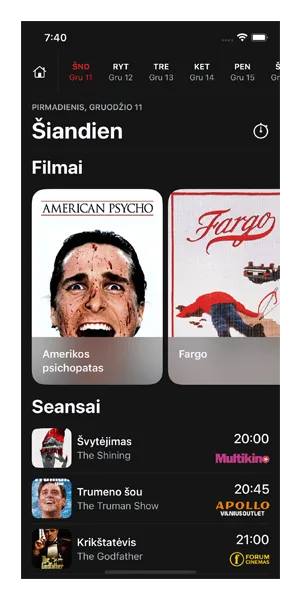
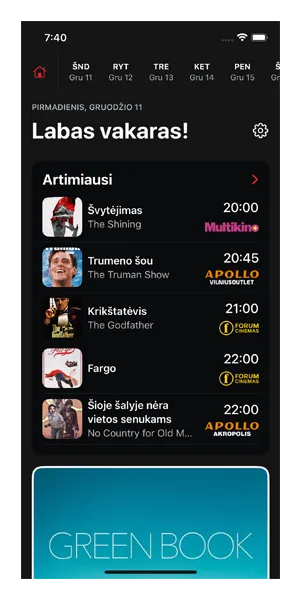
Publish deploy 2023-12-13 22:10

diff --git a/index.html b/index.html
@@ -1,1 +1,1 @@
-<!DOCTYPE html><html lang="lt"><head><meta charset="UTF-8"/><meta name="og:site_name" content="iKinas"/><link rel="canonical" href="https://www.ioys.lt/iKinas"/><meta name="twitter:url" content="https://www.ioys.lt/iKinas"/><meta name="og:url" content="https://www.ioys.lt/iKinas"/><title>iKinas</title><meta name="twitter:title" content="iKinas"/><meta name="og:title" content="iKinas"/><meta name="description" content="Lietuvos kino teatrų repertuaras iOS aplikacijoje!"/><meta name="twitter:description" content="Lietuvos kino teatrų repertuaras iOS aplikacijoje!"/><meta name="og:description" content="Lietuvos kino teatrų repertuaras iOS aplikacijoje!"/><meta name="twitter:card" content="summary"/><link rel="stylesheet" href="/iKinas/styles.css" type="text/css"/><meta name="viewport" content="width=device-width, initial-scale=1.0"/><link rel="shortcut icon" href="/iKinas/images/ikinas-icon.webp" type="image/webp"/></head><body><div class="site-content" style="background-image: linear-gradient(rgba(59,61,64,0.5), rgba(59,61,64,0.5)), url(/iKinas/images/ikinas-bg.webp);"><div class="site-content-wrapper"><div class="content-container--small"><div><img src="/iKinas/images/ikinas-icon.webp" class="app-info-icon"/><span class="app-info-title">iKinas</span></div><div class="image-content"><div class="device-mockup"><img src="/iKinas/images/frame.webp" style="z-index: 100;"/><div class="device-fade"><img src="/iKinas/images/ikinas-1.webp" id="f1"/><img src="/iKinas/images/ikinas-2.webp" id="f2"/><img src="/iKinas/images/ikinas-0.webp" id="f3"/></div></div></div><div><p><span>Nemokama iOS programėlė, kurioje rasi naujausią Lietuvos kino teatrų repertuarą bei išsamią informaciją apie šiuo metu rodomus filmus.</span></p><p><span>Išsirink patogiausią seanso laiką viename iš "Apollo", "Forum Cinemas", "Multikino", "Atlantis" ar "Cinamon" kino teatrų ir iškart įsigyk bilietą į norimą filmą.</span></p><p><span>Gero kino!</span></p></div><a href="https://apps.apple.com/lt/app/ikinas/id1501977644" class="store-button"><img src="/iKinas/images/appstore.webp"/></a></div><div class="content-container--large"><div class="info-content" style="width: 50%;"><div><img src="/iKinas/images/ikinas-icon.webp" class="app-info-icon"/><span class="app-info-title">iKinas</span></div><div><p><span>Nemokama iOS programėlė, kurioje rasi naujausią Lietuvos kino teatrų repertuarą bei išsamią informaciją apie šiuo metu rodomus filmus.</span></p><p><span>Išsirink patogiausią seanso laiką viename iš "Apollo", "Forum Cinemas", "Multikino", "Atlantis" ar "Cinamon" kino teatrų ir iškart įsigyk bilietą į norimą filmą.</span></p><p><span>Gero kino!</span></p></div><a href="https://apps.apple.com/lt/app/ikinas/id1501977644" class="store-button"><img src="/iKinas/images/appstore.webp"/></a></div><div class="image-content" style="width: 50%;"><div class="device-mockup"><img src="/iKinas/images/frame.webp" style="z-index: 100;"/><div class="device-fade"><img src="/iKinas/images/ikinas-1.webp" id="f1"/><img src="/iKinas/images/ikinas-2.webp" id="f2"/><img src="/iKinas/images/ikinas-0.webp" id="f3"/></div></div></div></div></div></div><footer><p><a href="mailto:ioysapps@gmail.com">Kontaktai</a> | <a href="/iKinas/privacy">Privatumo politika</a></p></footer></body></html>
+<!DOCTYPE html><html lang="lt"><head><meta charset="UTF-8"/><meta name="og:site_name" content="iKinas"/><link rel="canonical" href="https://www.ioys.lt/iKinas"/><meta name="twitter:url" content="https://www.ioys.lt/iKinas"/><meta name="og:url" content="https://www.ioys.lt/iKinas"/><title>iKinas</title><meta name="twitter:title" content="iKinas"/><meta name="og:title" content="iKinas"/><meta name="description" content="Lietuvos kino teatrų repertuaras iOS aplikacijoje!"/><meta name="twitter:description" content="Lietuvos kino teatrų repertuaras iOS aplikacijoje!"/><meta name="og:description" content="Lietuvos kino teatrų repertuaras iOS aplikacijoje!"/><meta name="twitter:card" content="summary"/><link rel="stylesheet" href="/iKinas/styles.css" type="text/css"/><meta name="viewport" content="width=device-width, initial-scale=1.0"/><link rel="shortcut icon" href="/iKinas/images/ikinas-icon.webp" type="image/webp"/></head><body><div class="site-content" style="background-image: linear-gradient(rgba(59,61,64,0.5), rgba(59,61,64,0.5)), url(/iKinas/images/ikinas-bg.webp);"><div class="site-content-wrapper"><div class="content-container--small"><div><img src="/iKinas/images/ikinas-icon.webp" class="app-info-icon"/><span class="app-info-title">iKinas</span></div><div class="image-content"><div class="device-mockup"><img src="/iKinas/images/frame.webp" style="z-index: 100;"/><div class="device-fade"><img src="/iKinas/images/ikinas-1.webp" id="f1"/><img src="/iKinas/images/ikinas-2.webp" id="f2"/><img src="/iKinas/images/ikinas-3.webp" id="f3"/><img src="/iKinas/images/ikinas-4.webp" id="f4"/></div></div></div><div><p><span>Nemokama iOS programėlė, kurioje rasi naujausią Lietuvos kino teatrų repertuarą bei išsamią informaciją apie šiuo metu rodomus filmus.</span></p><p><span>Išsirink patogiausią seanso laiką viename iš "Apollo", "Forum Cinemas", "Multikino", "Atlantis" ar "Cinamon" kino teatrų ir iškart įsigyk bilietą į norimą filmą.</span></p><p><span>Gero kino!</span></p></div><a href="https://apps.apple.com/lt/app/ikinas/id1501977644" class="store-button"><img src="/iKinas/images/appstore.webp"/></a></div><div class="content-container--large"><div class="info-content" style="width: 50%;"><div><img src="/iKinas/images/ikinas-icon.webp" class="app-info-icon"/><span class="app-info-title">iKinas</span></div><div><p><span>Nemokama iOS programėlė, kurioje rasi naujausią Lietuvos kino teatrų repertuarą bei išsamią informaciją apie šiuo metu rodomus filmus.</span></p><p><span>Išsirink patogiausią seanso laiką viename iš "Apollo", "Forum Cinemas", "Multikino", "Atlantis" ar "Cinamon" kino teatrų ir iškart įsigyk bilietą į norimą filmą.</span></p><p><span>Gero kino!</span></p></div><a href="https://apps.apple.com/lt/app/ikinas/id1501977644" class="store-button"><img src="/iKinas/images/appstore.webp"/></a></div><div class="image-content" style="width: 50%;"><div class="device-mockup"><img src="/iKinas/images/frame.webp" style="z-index: 100;"/><div class="device-fade"><img src="/iKinas/images/ikinas-1.webp" id="f1"/><img src="/iKinas/images/ikinas-2.webp" id="f2"/><img src="/iKinas/images/ikinas-3.webp" id="f3"/><img src="/iKinas/images/ikinas-4.webp" id="f4"/></div></div></div></div></div></div><footer><p><a href="mailto:ioysapps@gmail.com">Kontaktai</a> | <a href="/iKinas/privacy">Privatumo politika</a></p></footer></body></html>

diff --git a/StandardTheme/styles.css b/StandardTheme/styles.css
@@ -261,10 +261,10 @@ body,
     top: 0;
     -webkit-animation-name: fade;
     -webkit-animation-iteration-count: infinite;
-    -webkit-animation-duration: 12s;
+    -webkit-animation-duration: 16s;
     animation-name: fade;
     animation-iteration-count: infinite;
-    animation-duration: 12s;
+    animation-duration: 16s;
 }
 
 @-webkit-keyframes fade {
@@ -303,16 +303,18 @@ body,
     }
 }
 
-#f1 {
-
-}
+#f1 {}
 
 #f2 {
-    -webkit-animation-delay: -8s;
+    -webkit-animation-delay: -4s;
 }
 
 #f3 {
-    -webkit-animation-delay: -4s;
+    -webkit-animation-delay: -8s;
+}
+
+#f4 {
+    -webkit-animation-delay: -12s;
 }
 
 

diff --git a/styles.css b/styles.css
@@ -261,10 +261,10 @@ body,
     top: 0;
     -webkit-animation-name: fade;
     -webkit-animation-iteration-count: infinite;
-    -webkit-animation-duration: 12s;
+    -webkit-animation-duration: 16s;
     animation-name: fade;
     animation-iteration-count: infinite;
-    animation-duration: 12s;
+    animation-duration: 16s;
 }
 
 @-webkit-keyframes fade {
@@ -303,16 +303,18 @@ body,
     }
 }
 
-#f1 {
-
-}
+#f1 {}
 
 #f2 {
-    -webkit-animation-delay: -8s;
+    -webkit-animation-delay: -4s;
 }
 
 #f3 {
-    -webkit-animation-delay: -4s;
+    -webkit-animation-delay: -8s;
+}
+
+#f4 {
+    -webkit-animation-delay: -12s;
 }
 
 
